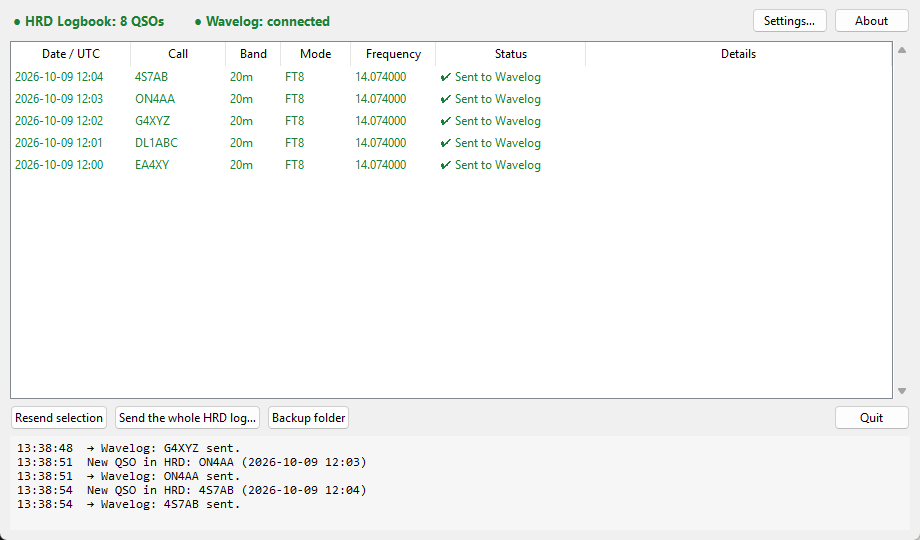
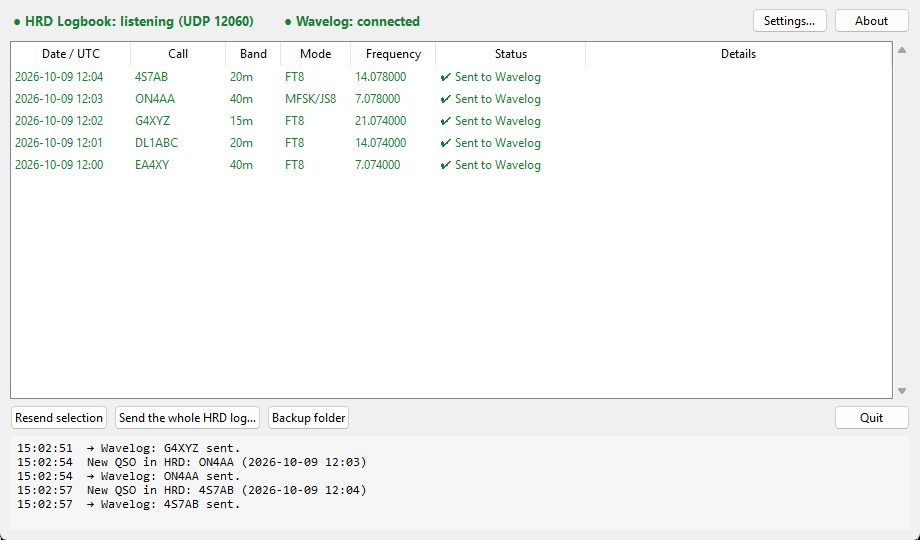
Captures d'écran de la version 1.1

diff --git a/packaging/screenshot.py b/packaging/screenshot.py
@@ -13,6 +13,7 @@ from hrdwl import app  # noqa: E402
 
 lang, out = sys.argv[1], sys.argv[2]
 delay = int(sys.argv[3]) if len(sys.argv) > 3 else 20000
+app.refresh_autostart = lambda: None  # ne pas toucher au démarrage auto de l'app installée
 root = tk.Tk()
 a = app.App(root)
 a.cfg["language"] = lang
@@ -22,6 +23,8 @@ root.attributes("-topmost", True)
 
 
 def shot():
+    a.hrd_state = (True, 12060)  # la démo écoute un autre port ; on affiche le port par défaut
+    a.set_indicators()
     root.update()
     x, y = root.winfo_rootx(), root.winfo_rooty()
     ImageGrab.grab((x, y, x + root.winfo_width(), y + root.winfo_height()), all_screens=True).save(out)
